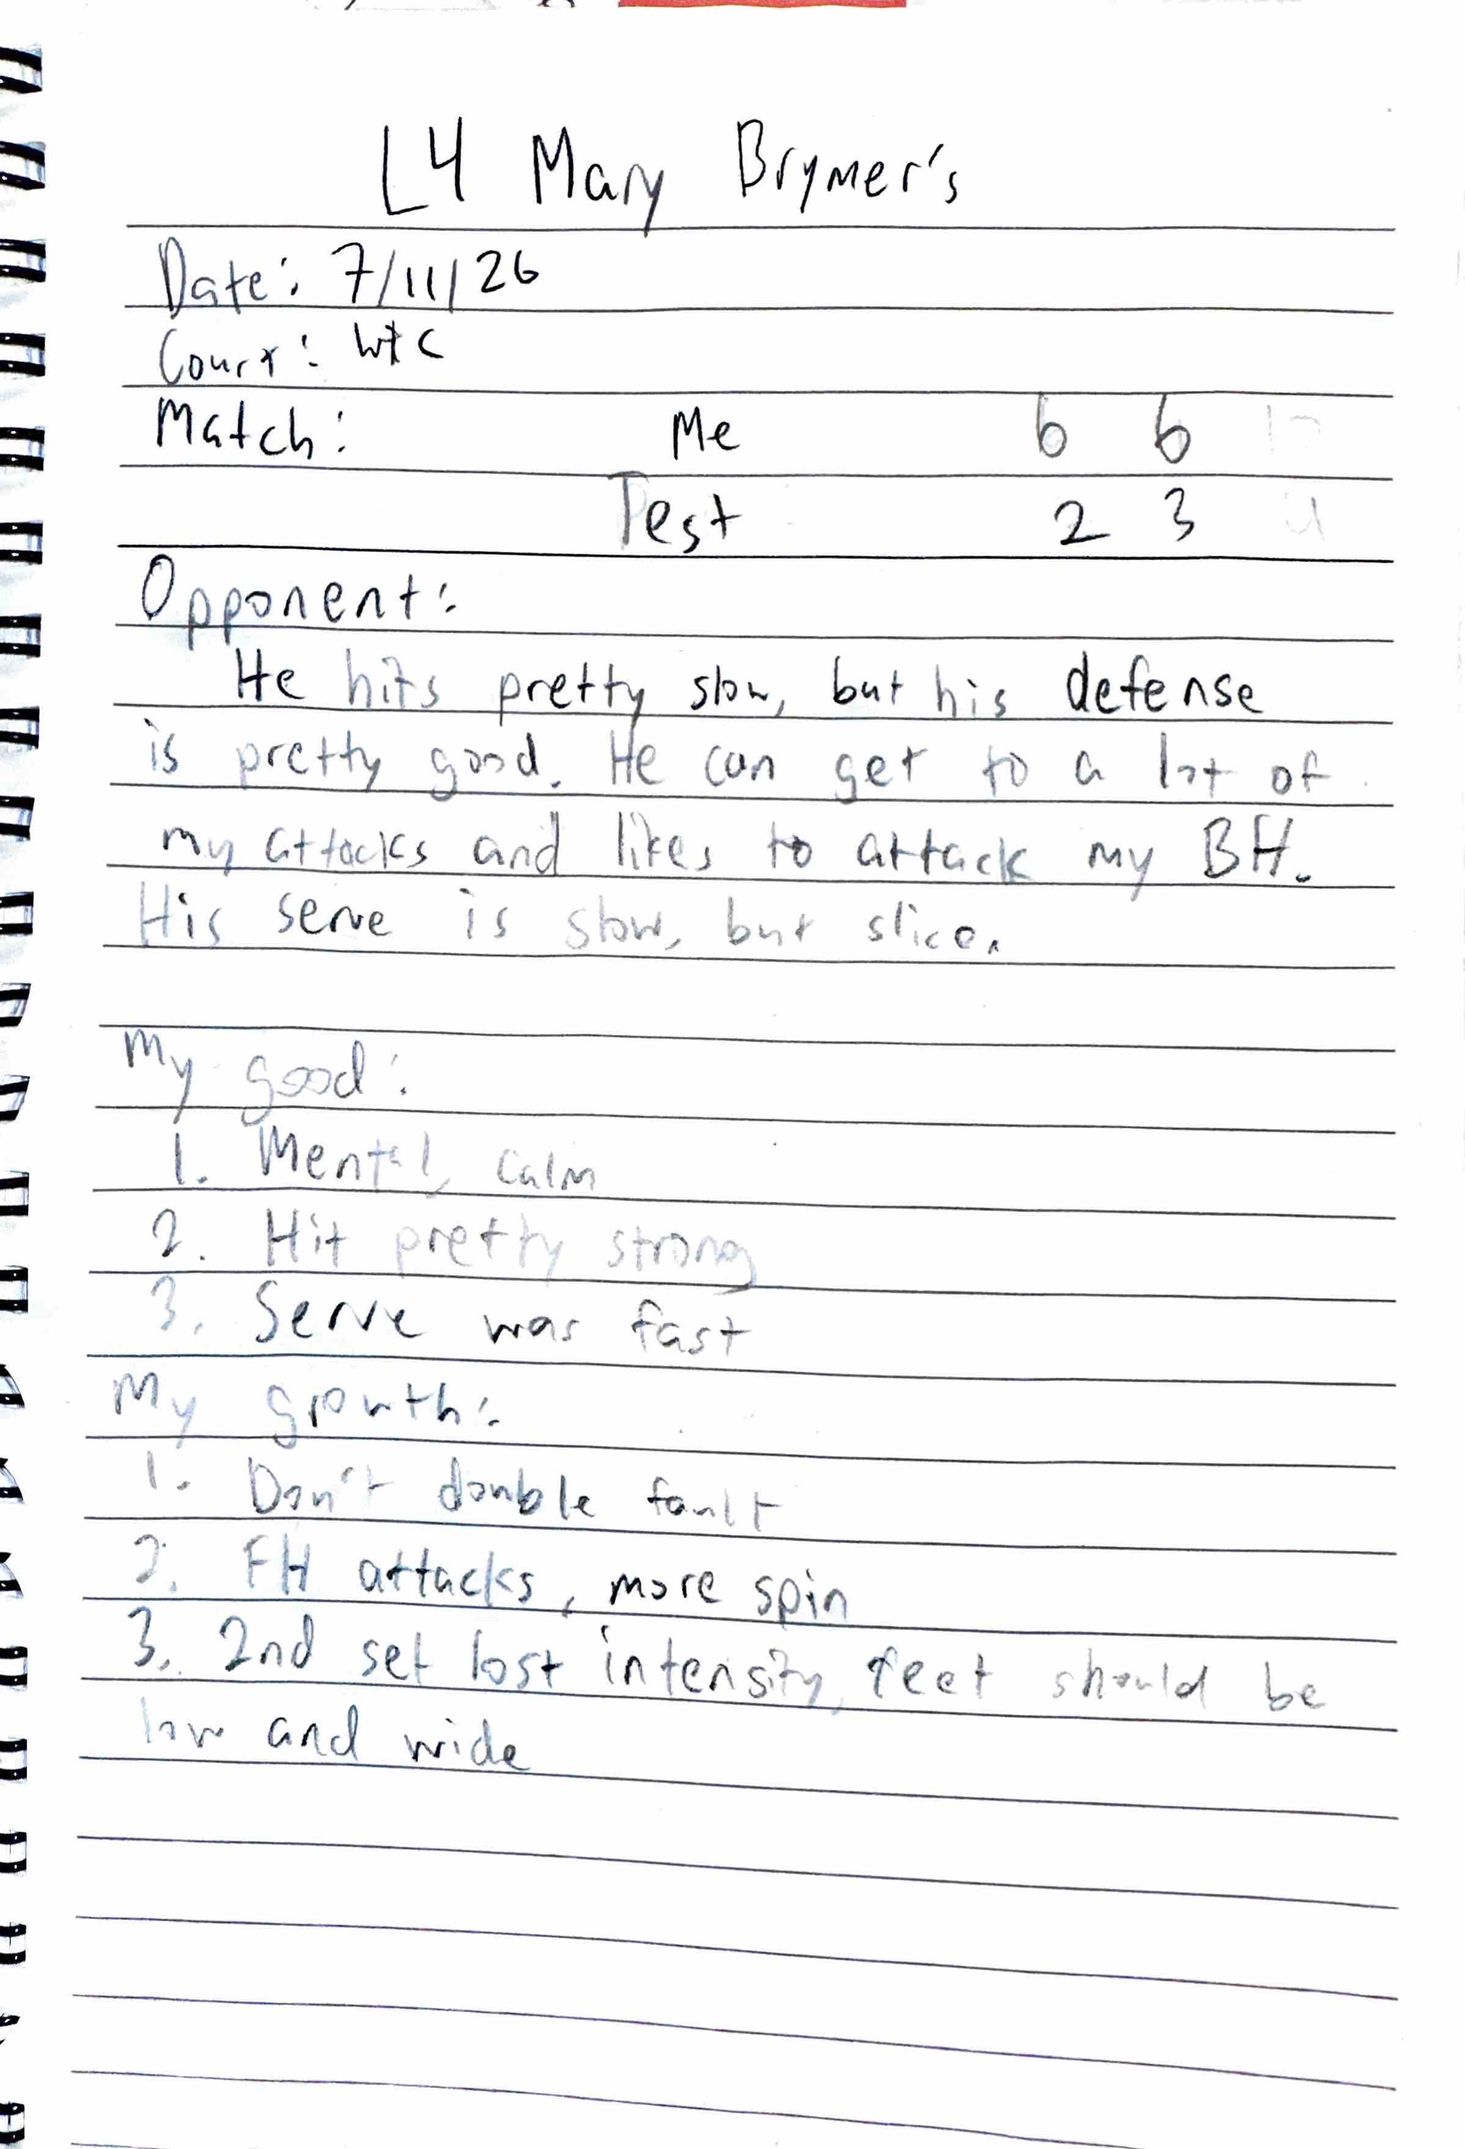
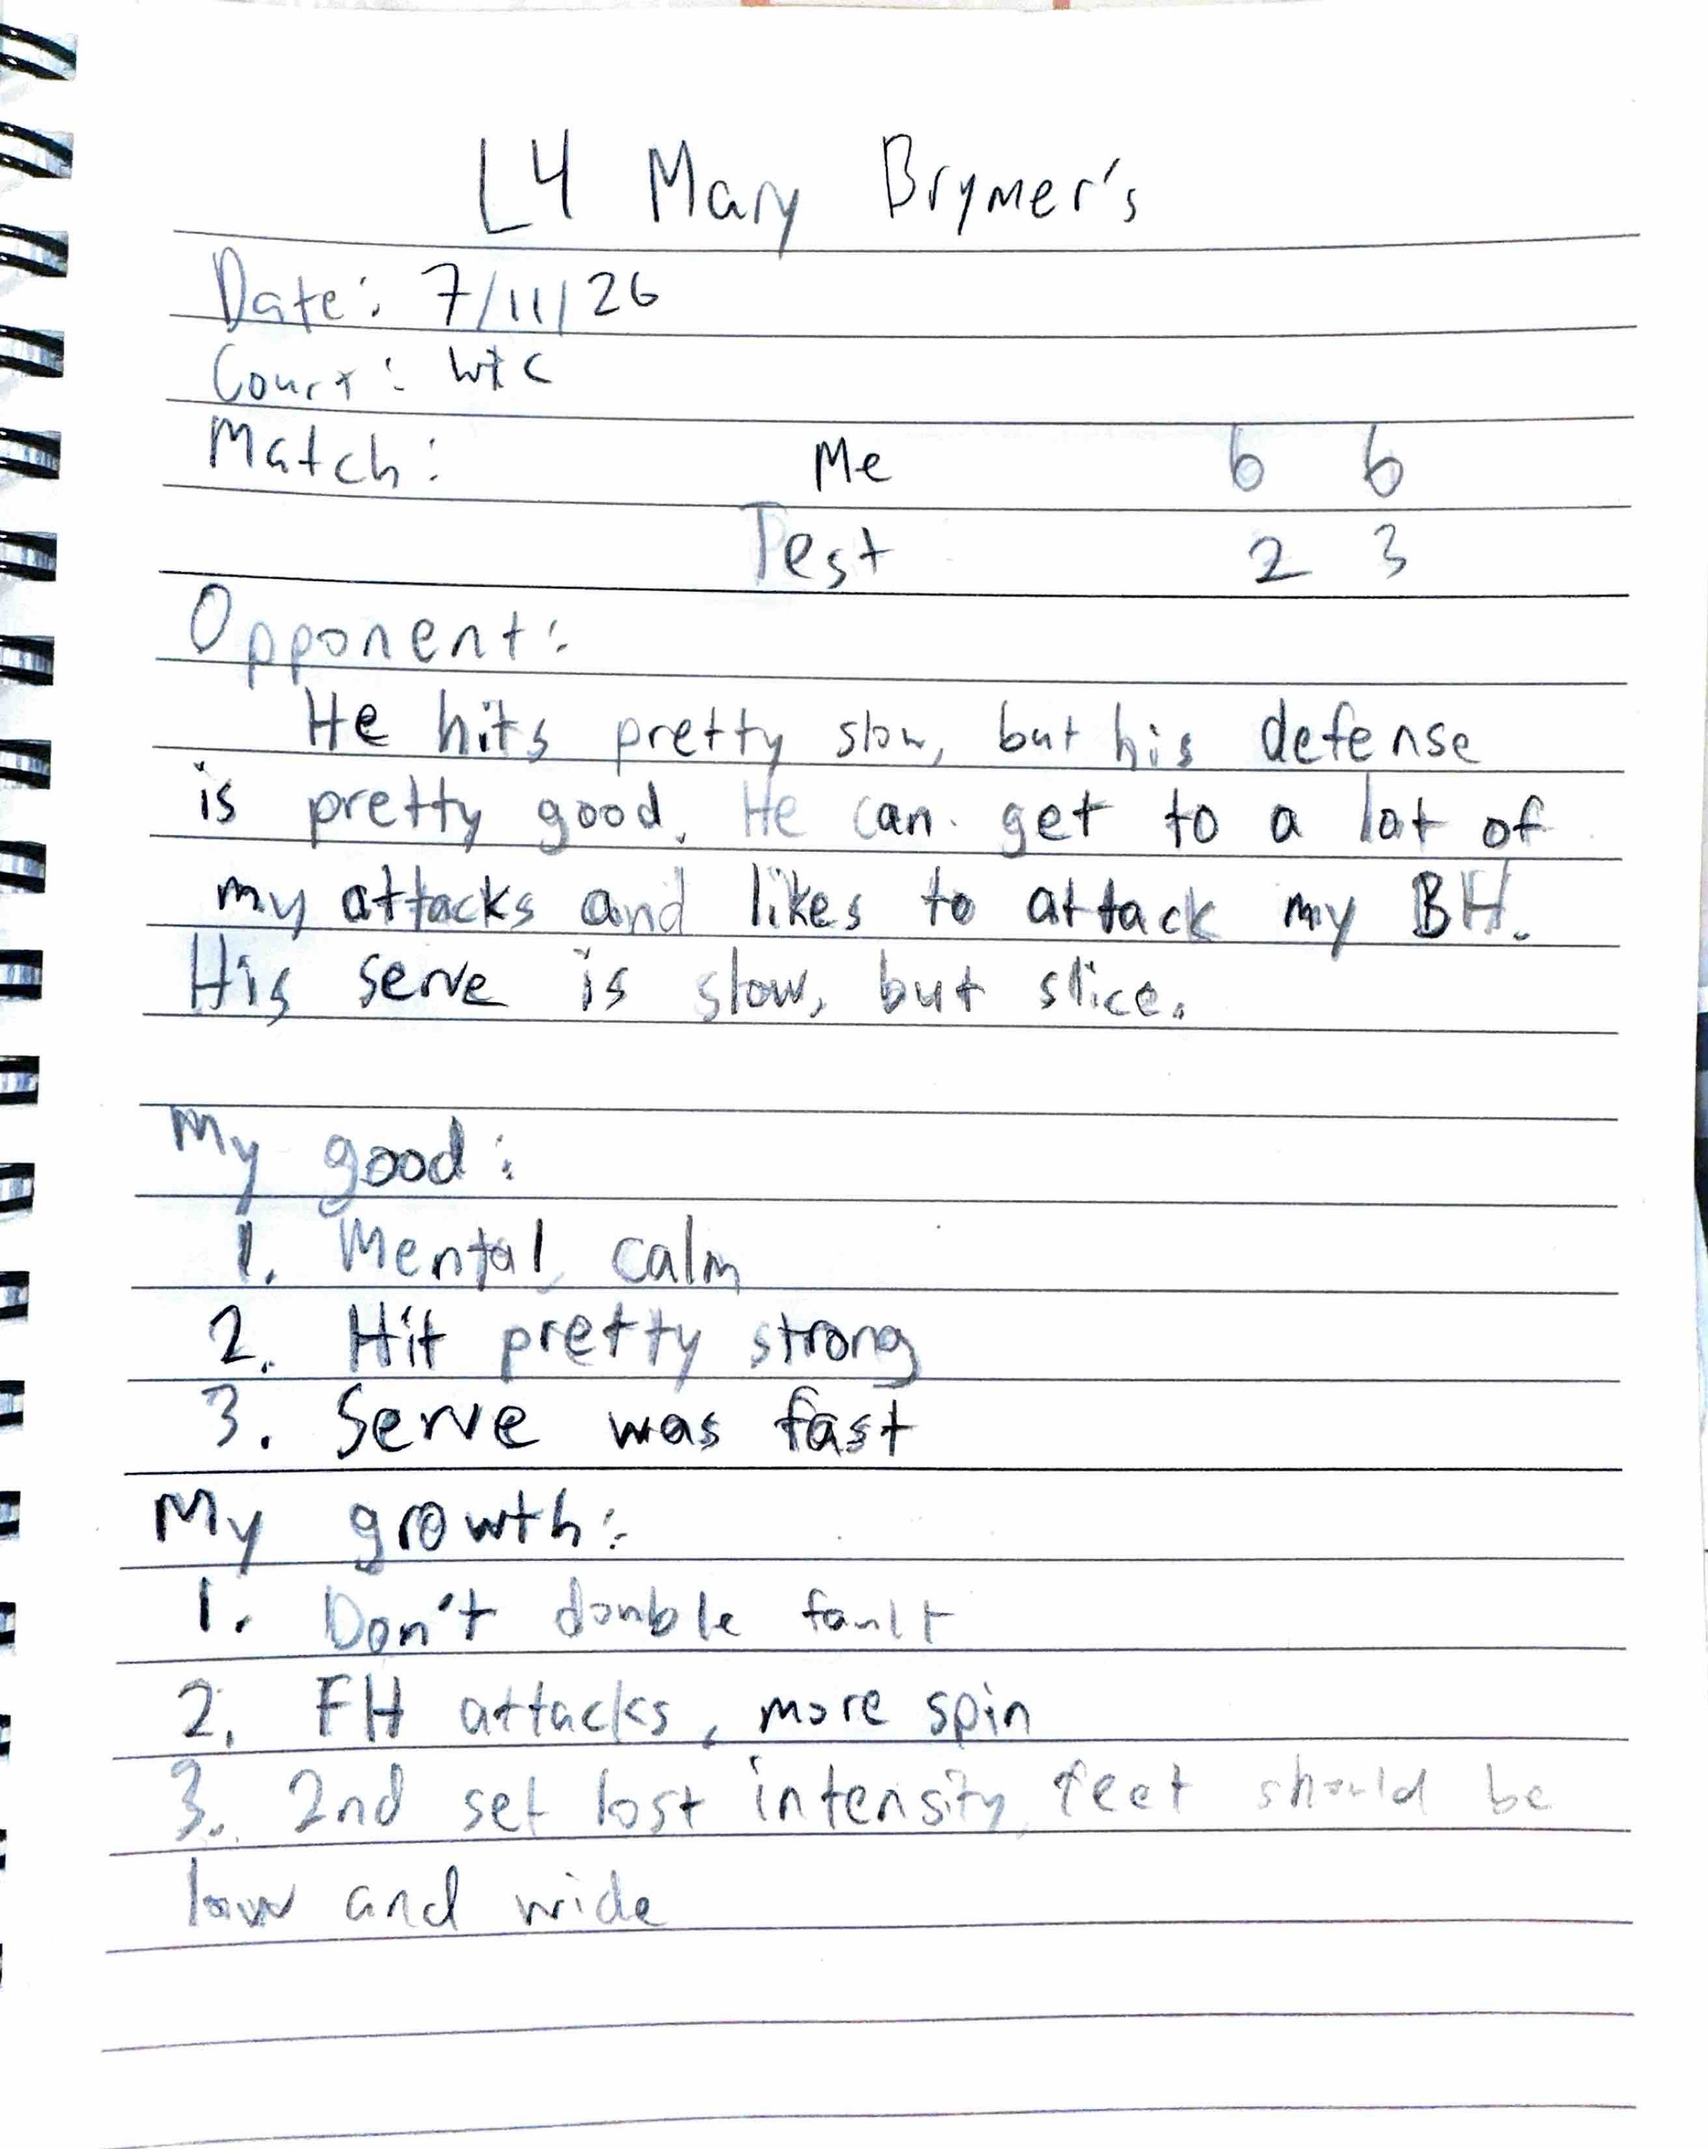
Use a clearer photo for the landing page's before/after journal image

diff --git a/matchmind-app/src/app/index.tsx b/matchmind-app/src/app/index.tsx
@@ -591,10 +591,10 @@ const styles = StyleSheet.create({
   beforeAfterItem: { alignItems: 'center', gap: Spacing.two },
   beforeAfterLabel: { letterSpacing: 1.5 },
   // Heights derived from each image's real aspect ratio (journal photo
-  // 2386x3500, app screenshot 900x881) so "contain" never letterboxes.
+  // 2781x3500, app screenshot 900x881) so "contain" never letterboxes.
   journalImage: {
     width: 280,
-    height: 410,
+    height: 352,
     borderRadius: Radius.large,
     borderWidth: 1,
   },
